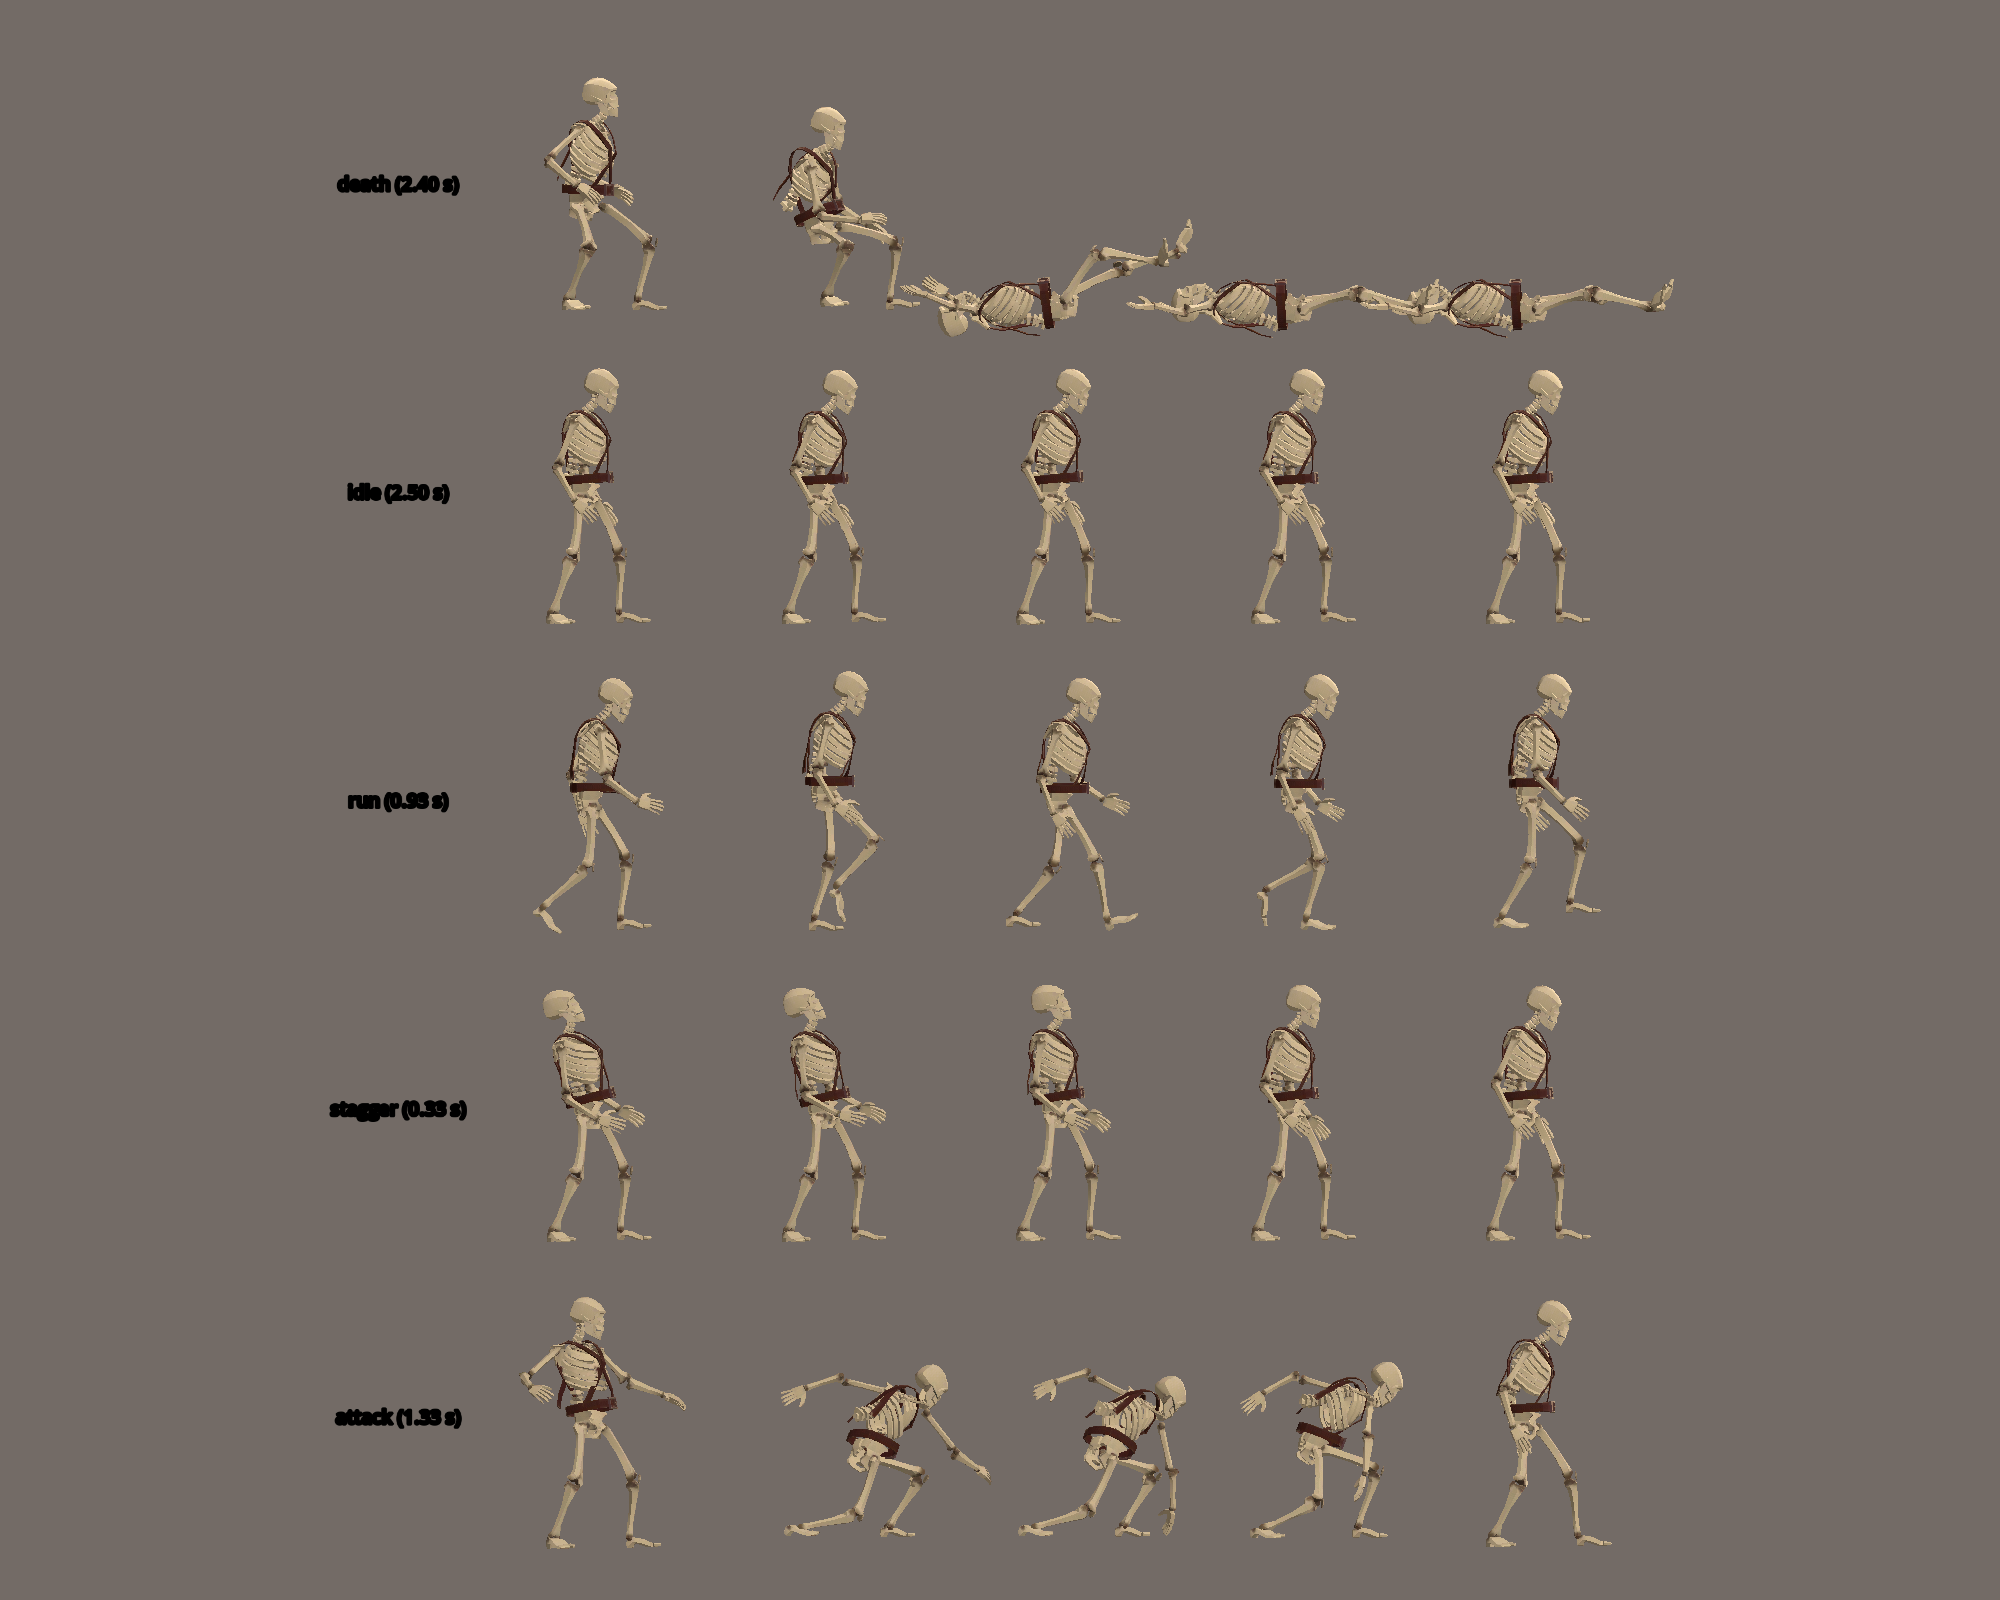
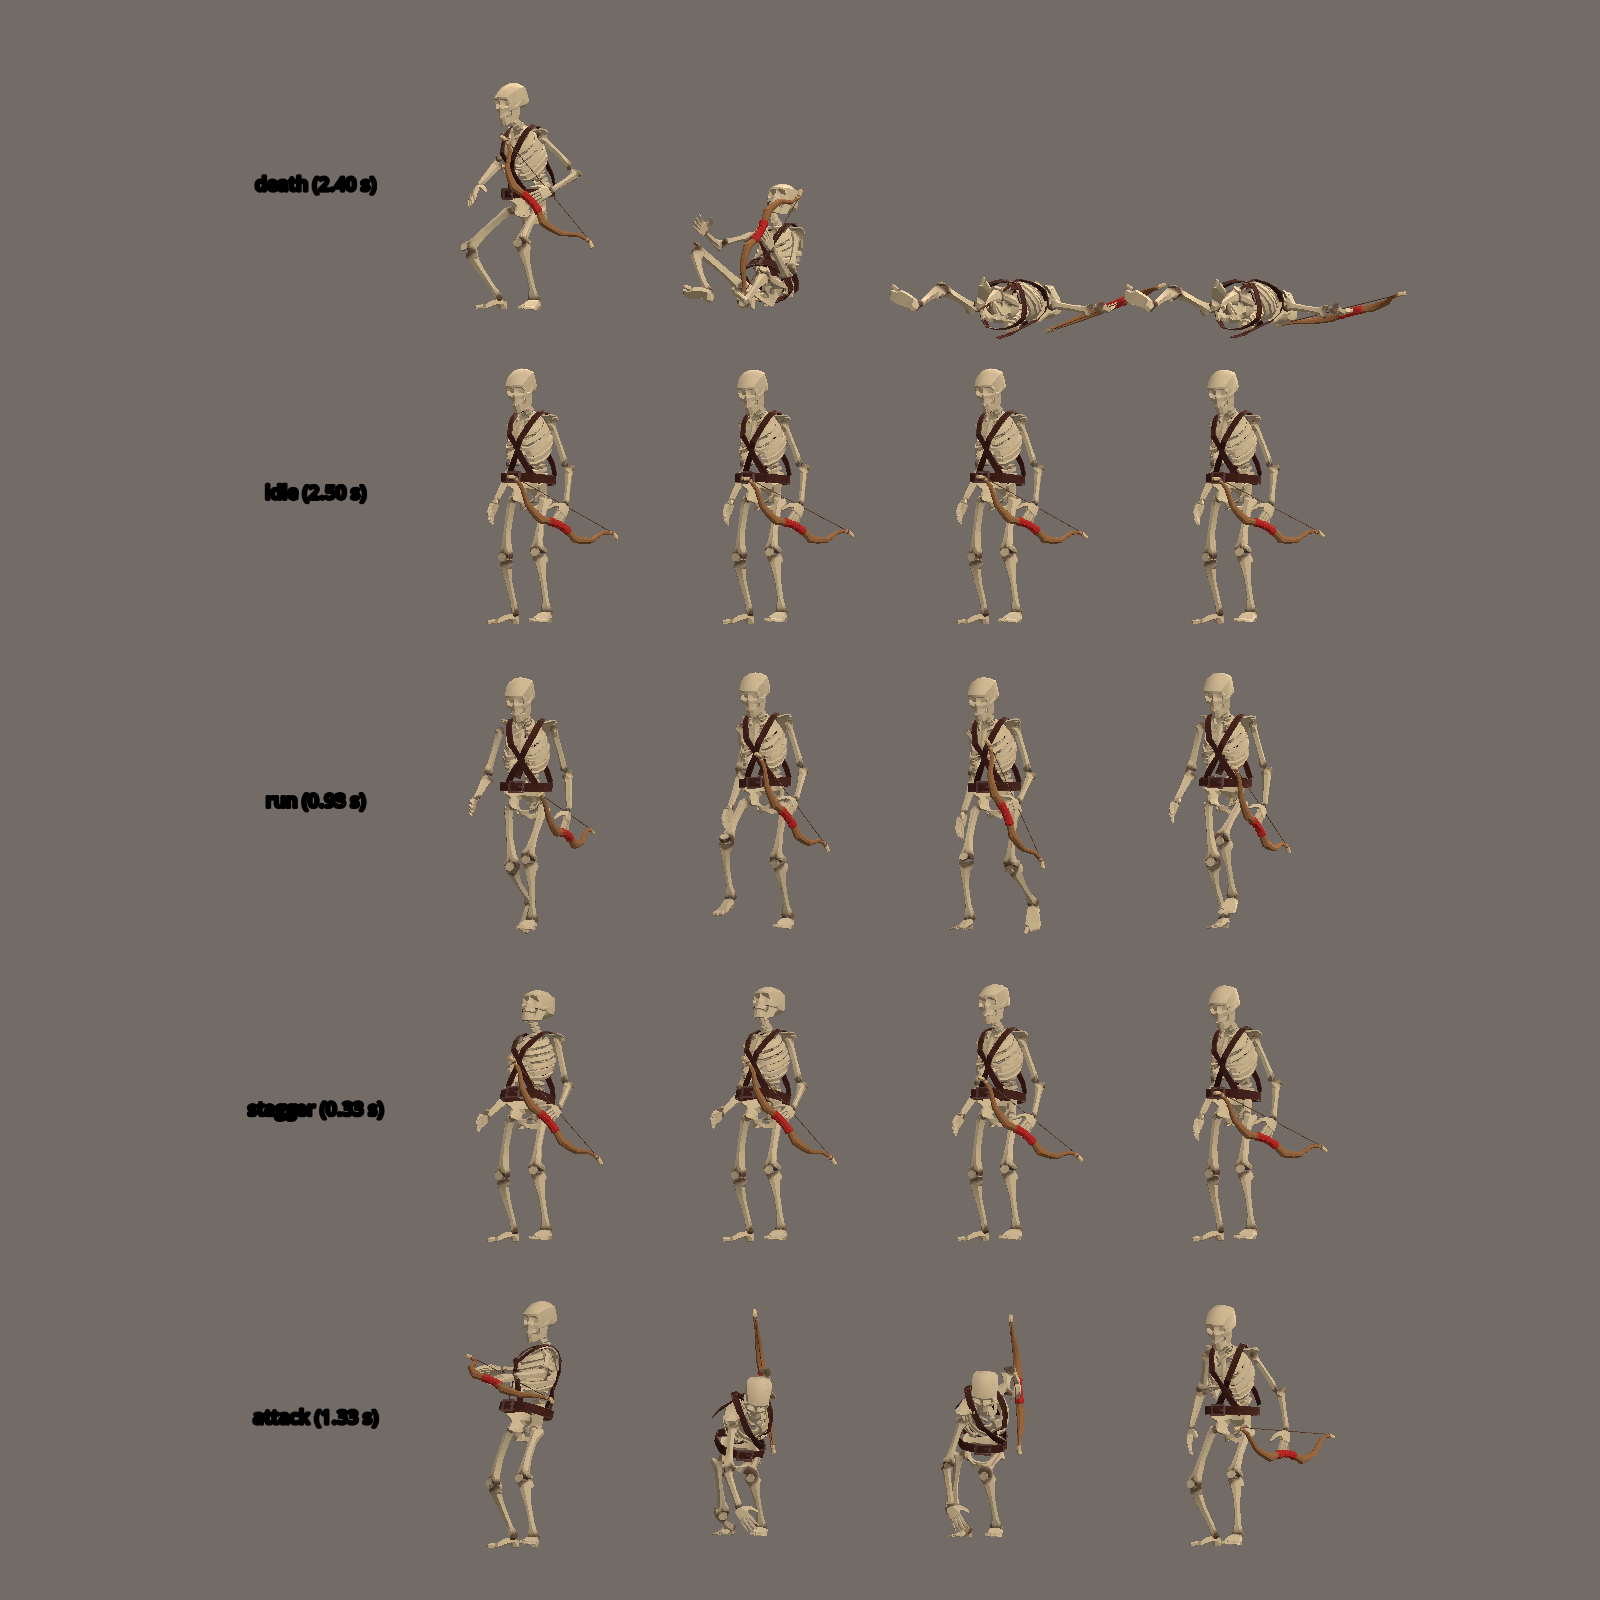
Put the bow in the Back-file's hand; note the CC0 sourcing path
- scenes/props/HeldLevyBow.tscn (make_held_props.gd, now with explicit
  axis mapping): limbs upright along the left hand's thumb side, string
  toward the archer; ArcherEnemy holds it in hand_l
- Re-recorded Back-file contact sheet and an in-game archer frame
- Art bible: generate what carries identity, download the rest.
  Decisions log: the CC0 import path is queued; bow notes and spend
  (project 410, balance 590)

diff --git a/docs/decisions.md b/docs/decisions.md
@@ -39,6 +39,8 @@ Settled choices with their one-line reasons. Read this before re-opening any of 
 - **Fix Silhouette on the characters' imports** (`retarget/rest_fixer/fix_silhouette/enable`). The A-pose levy retargeted from the T-pose library over-rotated its arms down and behind the back; attaching the weapons didn't help. With it on, the idle, stagger and run arms sit in front. `Walk_Formal_Loop` really is hands-behind-back, so the Back-file walks with `Walk_Loop` (same native speed).
 - **Held props through one helper** (`scripts/combat/HeldProps.gd`), used by `BaseEnemy` and now the player (`data/rigs/player_sockets.tres`). Alignment lives in wrapper scenes (`scenes/props/Held*.tscn`, generated by `scripts/tools/make_held_props.gd`) in the hand bone's retargeted frame, which is the same on every character. The player reuses the Levy Blade for now.
 
+- **Levy Bow: concept-1 approved as a mild recurve** (not worth 15 credits to sharpen a curl that 1,320 triangles would smooth out). It came back at 1,192 triangles, with no holes and **the string intact as its own part** (1.4 cm × 86 cm, strung between the tip rings), so no cleanup string was needed. The prompt was rewritten to describe only what's there before generating (the old one had "no hands, no arrow" and "cracks"). It's held in the Back-file's `hand_l` via `scenes/props/HeldLevyBow.tscn`: limbs upright along the thumb side, string toward the archer.
+
 ## Observed Tripo costs
 
 - P1 text-to-3D with a standard texture: **40 credits** (twice: attempts 1 and 2). The pricing page's 20 was the H-series price, so it undercounted P1 by 2×. The CLI's `credits_consumed` matched the balance difference every time.
@@ -49,8 +51,9 @@ Settled choices with their one-line reasons. Read this before re-opening any of 
 - image-to-multiview: **10 credits**, matching the CLI's report (Barrow-levy multiview-1). It returns four 1024² JPEGs on a white background.
 - P1 multiview-to-3D at `face_limit` 5000: **50 credits**, matching the CLI (Barrow-levy attempt-1). That's 10 more than P1 text-to-3D.
 - Tripo auto-rig (biped, `v2.5-20260210` requested): **25 credits**, matching the CLI (Barrow-levy rig-1). Rig-check is free (0 credits, twice).
+- P1 multiview-to-3D costs 50 at `face_limit` 1200 too (Levy Bow), so the price doesn't depend on `face_limit`. A generated prop costs about 75 in all (concept 15 + multiview 10 + model 50).
 - Not yet observed: seedream_v5. Add each to the tripo skill's table after its first run.
-- Project spend so far: 335 (80 on the blade; Barrow-levy 155: concepts 45, multiview 10, model 50, rigs 50; player 100: concept 15, multiview 10, model 50, rig 25); balance 665.
+- Project spend so far: 410 (80 on the blade; Barrow-levy 155; player 100; Levy Bow 75: concept 15, multiview 10, model 50); balance 590.
 
 ## Open risks
 
@@ -75,6 +78,8 @@ Settled choices with their one-line reasons. Read this before re-opening any of 
 - **Level 1 torchlight comparison** (`assets/manifests/comparison/`, made with `scripts/review/level1_compare.tscn`, the level's own ambient and torch energies): the two characters read as one set, with the same flat faceting and matte albedo, and no plastic sheen. The levy's pale bone pops against the dark corridor. **The player's dark teal, navy and dark boots sit close in value to the corridor from behind**, so the spiky hair and vest carry the read. If that's too dark in play, fix it level-side (ambient and torch energy), per the color-correction rule.
 - **Rigged meshes are now welded where coincident vertices share identical skin weights** (fixed; it was 13.2% → 24.4% faceted faces on the rigged Barrow-levy, and is back to 13.2%).
 ## Next
+
+- **Queued (after the weapons are in): a pipeline path for downloaded CC0 assets.** It skips stages 1–2 (concept, multiview, model) and runs an existing GLB through clean: facing, flat shading, palette correction (there's no concept, so the palette fallback applies), and the budget assert. Third-party props then land in the same color space and shading standard as generated ones. Principle recorded in the art bible: generate what carries identity, download the rest.
 
 
 - Build pipeline stages 1–3 as the chain text-to-image (banana_pro) → image-to-multiview → multiview-to-3D, with a stop for concept approval. Then run the Barrow-levy through it and record each new stage's observed cost.

diff --git a/docs/art-bible.md b/docs/art-bible.md
@@ -101,6 +101,10 @@ Each group owns one **primary** color that no other group uses as a primary, so 
 - **Overcast Blue:** the Sleet, Charter light and UI only.
 - **Torch Amber:** fire, Kindle and Hessane lamps only.
 
+## Sourcing: generate or download
+
+**Generate what carries identity; download the rest.** Characters, faction-marked gear and anything the camera lingers on go through the Tripo pipeline and a brief. Generic dressing (barrels, crates, rubble, furniture) can come from CC0 sources. Downloaded assets go through the same clean stage (facing, flat shading, color correction toward the palette, budget assert), so they land in the same color space and shading standard as generated ones. (That import path is queued; see `docs/decisions.md` → Next.)
+
 ## Design brief format
 
 Every asset gets a brief before any generation spend. Fields:
@@ -180,7 +184,7 @@ Every asset gets a brief before any generation spend. Fields:
 - **Rig / attachment:** no skeleton. Held in socket `hand_l` via `held_props`, aligned with a child `Transform3D`.
 - **Scale & pivot:** about 1.0 m tip to tip. Origin at the center (the grip), limbs along Blender ±Z; both ends are tips (`tip_end: symmetric`).
 - **Animation:** none. The string doesn't deform (acceptable for MVP).
-- **Prompt:** FORM block + *"A single short recurve bow with strongly curled tips, isolated prop, no hands, no arrow, front view. Darkened Barrow Oak limbs with cracks, small Old Bone tip caps, a faded Signal Red cloth grip wrap, one thin string."*
+- **Prompt:** FORM block + *"A single short recurve bow standing upright, seen from the front, as an isolated prop. Two Barrow Oak limbs curl strongly outward at each tip and end in small Old Bone caps; the grip in the middle is wrapped in Signal Red cloth, and one thin straight string runs from tip to tip."* (Rewritten 2026-09-28 to describe only what's there, without negatives; the cracks and wear go in the albedo.)
 - **Accept when:** ≤ 1,320 triangles; true length 1.0 m along its principal axis; albedo only at ≤ 128²; sits in the left hand through all Back-file clips; the curled silhouette reads at 15 m.
 - **Cost:** 1 Tripo generation.
 
